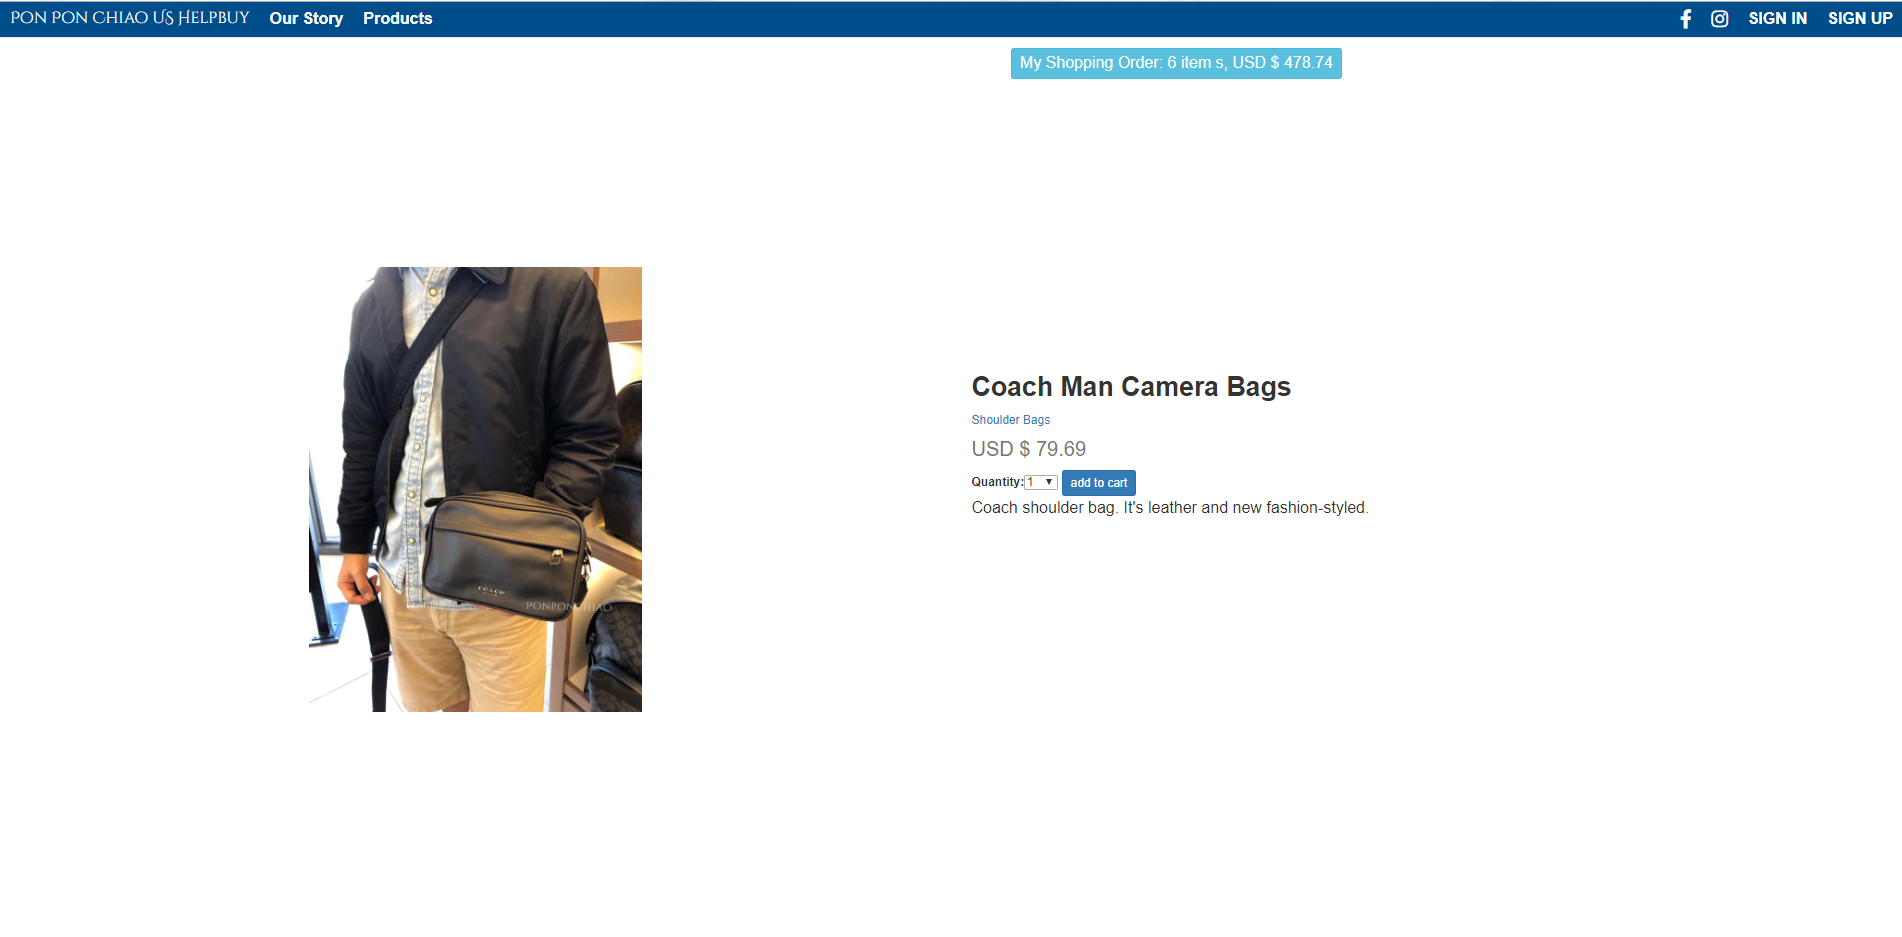
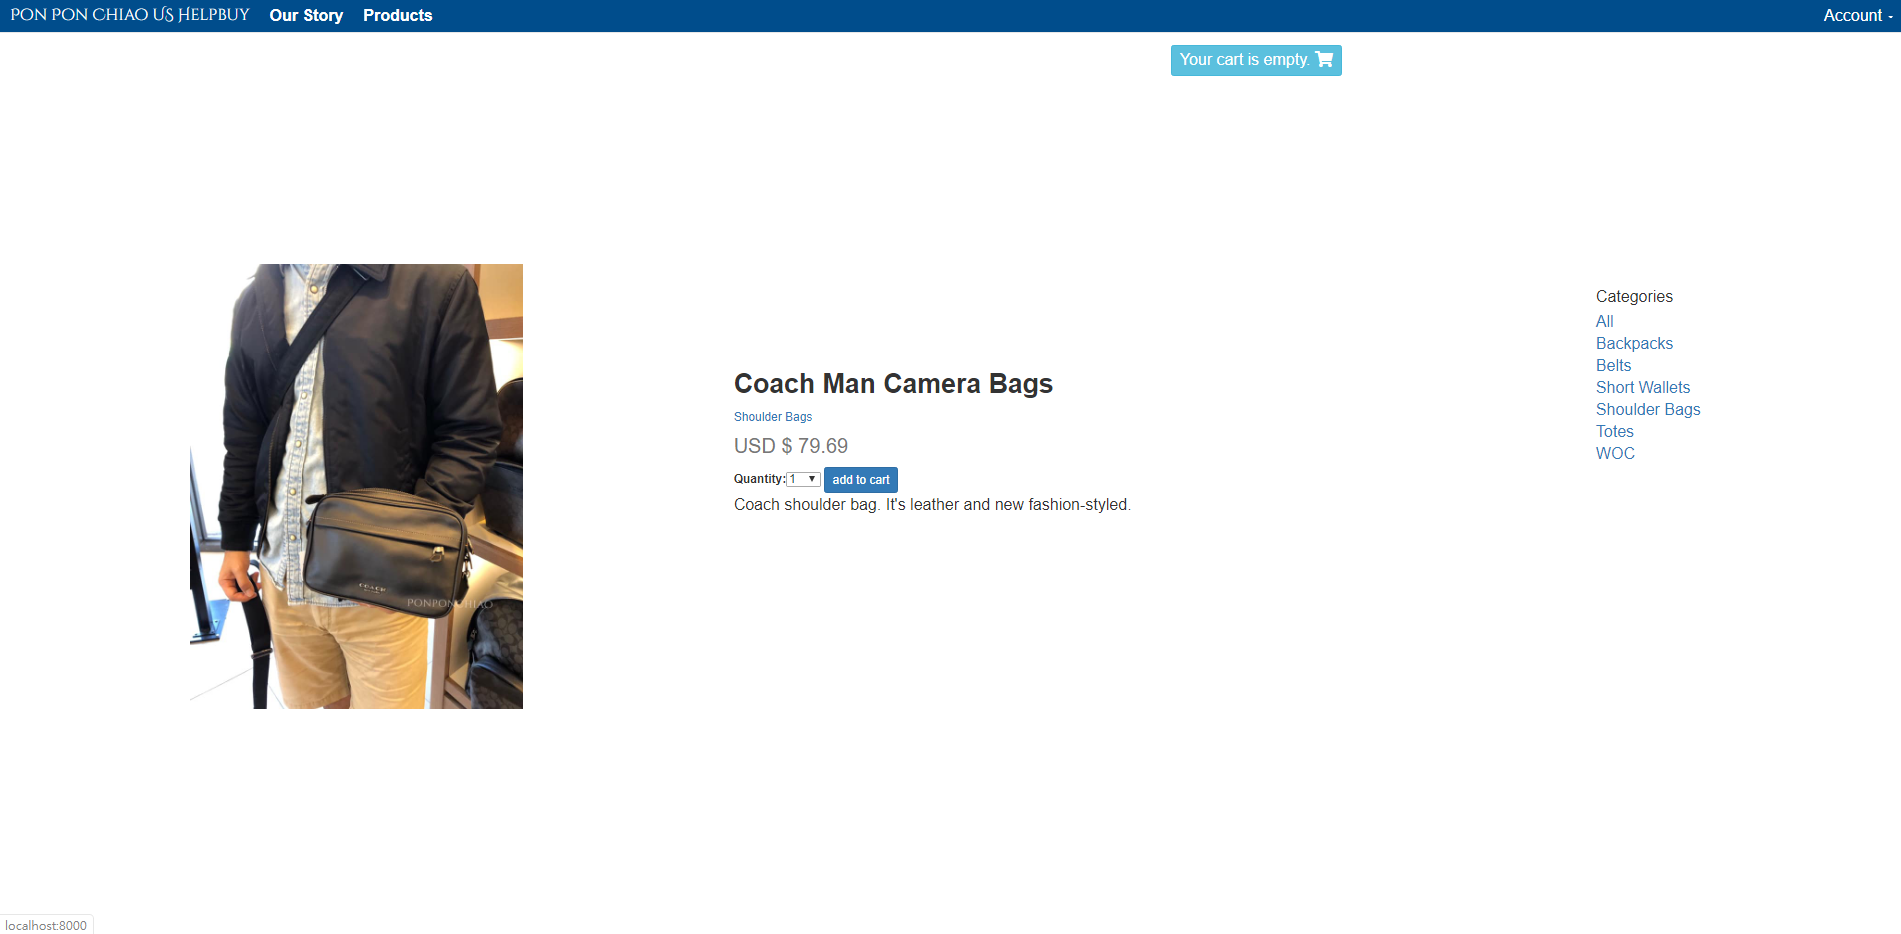
update admin layout 2

diff --git a/shop/templates/shop/navbar.html b/shop/templates/shop/navbar.html
@@ -22,28 +22,19 @@
 
     <ul class="nav navbar-nav navbar-right">
       <li class="dropdown">
-          {% if request.user.is_authenticated %}
-              <a href="#" class="dropdown-toggle" data-toggle="dropdown" style="color: #ffffff; font-size: 24px">{{ request.user.username }}<b class="caret"></b></a>
-              <ul class="dropdown-menu">
-                <li><a href="">LOGOUT</a></li>
+        <a href="#" class="dropdown-toggle" data-toggle="dropdown" role="button" aria-haspopup="true" aria-expanded="false"  style="color: #ffffff; font-size: 24px" >Account <span class="caret"></span></a>
+        <ul class="dropdown-menu">
+          {% if not request.user.is_authenticated %}
+          <li><a href="#">Login</a></li>
+          <li><a href="#">Sign Up</a></li>
           {% else %}
+          <li><a href="#" style="font-weight: 1200; color:#004d8c ">{{ request.user.username }}</a></li>
+          <li><a href="#">Log Out</a></li>
+          {%  endif %}
 
-                <li class="divider"></li>
-                <li><!-- Facebook -->
-                  <a class="fb-ic" href="https://www.facebook.com/ponponchiao/">
-                    <i class="fab fa-facebook-f fa-lg white-text mr-md-5 mr-3 fa-2x" style="color: white"> </i>
-                  </a>
-                </li>
-                <li><!--Instagram-->
-                  <a class="ins-ic" href="https://www.instagram.com/ponponchiao/">
-                    <i class="fab fa-instagram fa-lg white-text mr-md-5 mr-3 fa-2x" style="color: white"> </i>
-                  </a>
-                  </li>
-                <li><a href="#" style="color: #ffffff; font-size: 24px"><strong>SIGN IN</strong></a></li>
-                <li><a href="#" style="color: #ffffff; font-size: 24px"><strong>SIGN UP</strong></a></li>
-              </ul>
-          {% endif %}
+        </ul>
       </li>
+
     </ul>
   </div><!-- /.navbar-collapse -->
   </div>

diff --git a/shop/templates/shop/footer.html b/shop/templates/shop/footer.html
@@ -1,10 +1,36 @@
 <!-- Footer -->
-<footer class="page-footer font-small cyan darken-3" style="bottom: 0">
-    <!-- Copyright -->
-    <div class="footer-copyright text-center py-3">© 2020 Copyright:
-      <a href="#"> Shang-Wei Hung</a>
+<footer class="page-footer font-small cyan darken-3">
+
+  <!-- Footer Elements -->
+  <div class="container">
+
+    <!-- Grid row-->
+    <div class="row">
+
+      <!-- Grid column -->
+      <div class="col-md-12 text-center py-5 ">
+        <div class="mb-5 flex-center">
+            <a class="fb-ic" href="https://www.facebook.com/ponponchiao/">
+              <i class="fab fa-facebook-f fa-lg white-text mr-md-5 mr-3 fa-2x" style="color:#004d8c; height:fit-content"> </i>
+            </a>
+            <a class="ins-ic" href="https://www.instagram.com/ponponchiao/">
+              <i class="fab fa-instagram fa-lg white-text mr-md-5 mr-3 fa-2x" style="color:#004d8c; height:fit-content"> </i>
+            </a>
+        </div>
+      </div>
+      <!-- Grid column -->
+
     </div>
-    <!-- Copyright -->
-  
+    <!-- Grid row-->
+
+  </div>
+  <!-- Footer Elements -->
+
+  <!-- Copyright -->
+  <div class="footer-copyright text-center py-3">© 2020 Copyright:
+    <a href="#" style="color:#004d8c">  Shang-Wei Hung</a>
+  </div>
+  <!-- Copyright -->
+
 </footer>
 <!-- Footer -->

diff --git a/shop/templates/shop/product/detail.html b/shop/templates/shop/product/detail.html
@@ -13,7 +13,7 @@
 <div class="container-fluid h-100">
     <div class="row justify-content-center h-100" style="margin-top: 10%; margin-bottom: 10%">
 
-      <div class="col-sm-12 blog-main">
+        <div class="col-md-9 col-sm-10 blog-main">
 
         <div class="blog-post">
             <div class="row">
@@ -41,6 +41,21 @@
         </div><!-- /.blog-post -->
 
       </div><!-- /.blog-main -->
+      <div class="col-md-2 col-md-offset-1 col-sm-2 blog-sidebar">
+        <div class="sidebar-module">
+          <h3>Categories</h3>
+          <ol class="list-unstyled">
+            <li {% if not category %} class="active"{% endif %}><a href="{% url 'shop:product_list' %}"  style="font-size: 24px">All</a></li>
+          
+          {% for cat in categories %}
+            <li {% if category.slug == cat.slug %} class="active"{% endif %}>
+                <a href="{{ cat.get_absolute_url }}" style="font-size: 24px">{{ cat.name }}</a>
+            </li>
+          {% endfor %}
+          </ol>
+        </div>
+      </div><!-- /.blog-sidebar -->
+
     </div><!-- /.row -->
 
   </div><!-- /.container -->

diff --git a/shop/templates/shop/product/list.html b/shop/templates/shop/product/list.html
@@ -12,12 +12,12 @@
 <div class="container-fluid">
     <div class="row" style="margin-top: 3%">
 
-      <div class="col-sm-8 blog-main">
+      <div class="col-md-9 col-sm-10 blog-main">
 
         <div class="blog-post">
             <div class="row">
                 {% for product in products %}
-                    <div class="col-md-3">
+                    <div class="col-md-3 col-sm-6 col-xs-12">
                       <div class="thumbnail">
                           <a href="{{ product.get_absolute_url }}">
                               <img src="{% if product.image %} {{ product.image.url }} {% else %} {% static 'img/default.jpg' %} {% endif %}" alt="..." style="height: 400px; width: auto">
@@ -40,7 +40,7 @@
 
       </div><!-- /.blog-main -->
 
-      <div class="col-sm-3 col-sm-offset-1 blog-sidebar">
+      <div class="col-md-2 col-md-offset-1 col-sm-2 blog-sidebar">
         <div class="sidebar-module">
           <h3>Categories</h3>
           <ol class="list-unstyled">

diff --git a/shop/templates/shop/base.html b/shop/templates/shop/base.html
@@ -7,6 +7,8 @@
     <link rel="stylesheet" href="{% static 'css/bootstrap.min.css' %}">
     <link rel="stylesheet" href="{% static 'css/styles.css' %}">
 
+    
+
     <link href="https://fonts.googleapis.com/css?family=Cinzel+Decorative&display=swap" rel="stylesheet">
     <link href="https://cdnjs.cloudflare.com/ajax/libs/font-awesome/5.12.1/css/all.min.css" rel="stylesheet">
 
@@ -27,6 +29,7 @@
                     Your cart is empty.
                 {% endif %}
             {% endwith %}
+            <i class="fa fa-shopping-cart" aria-hidden="true"></i>
          </button>
     </div>
 </div>

diff --git a/shop/static/css/styles.css b/shop/static/css/styles.css
@@ -92,3 +92,4 @@ p.list-price{
   -o-transition: border .2s ease-in-out;
   transition: border .2s ease-in-out;
 }
+

diff --git a/shop/views.py b/shop/views.py
@@ -23,10 +23,13 @@ def product_list(request, category_slug = None ):
 def product_detail(request, id, slug):
     product = get_object_or_404(Product, id=id, available=True)
     cart_product_form = CartAddProductForm()
+
+    categories = Category.objects.all()
     
     context = {  # containing the data to insert into the placeholders. 
         'product': product,
-        'cart_product_form': cart_product_form
+        'cart_product_form': cart_product_form,
+        'categories': categories
     }
 
     return render(request, 'shop/product/detail.html', context)
